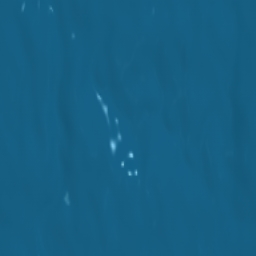
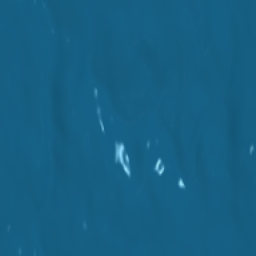
fixed circle and cone textures

diff --git a/projA/MyCircle.js b/projA/MyCircle.js
@@ -15,7 +15,6 @@ class MyCircle extends CGFobject {
         this.normals = [];
         this.texCoords = [];
 
-        var ang = 0;
         var alpha = 2*Math.PI/this.slices;
 
         for(var i = 0; i < this.slices; i++){
@@ -23,7 +22,9 @@ class MyCircle extends CGFobject {
             this.vertices.push(this.radius * Math.cos(alpha*i), 0,this.radius * -Math.sin(alpha*i));
             this.indices.push(i, (i+1) % this.slices, this.slices);
             this.normals.push(0, 1, 0);
-            this.texCoords.push(i % 2, 1);
+            //reduze circle radius to 1, and make all values positive
+            this.texCoords.push(Math.cos(alpha*i)*0.5+0.5, -Math.sin(alpha*i)*0.5+0.5);
+            //this.texCoords.push(0.5, 0.5);
         }
         this.vertices.push(0,0,0);
         this.normals.push(0,1,0);

diff --git a/projA/MyCone.js b/projA/MyCone.js
@@ -24,13 +24,14 @@ class MyCone extends CGFobject {
             this.vertices.push(Math.cos(ang), 0, -Math.sin(ang));
             this.indices.push(i, (i+1) % this.slices, this.slices);
             this.normals.push(Math.cos(ang), Math.cos(Math.PI/4.0), -Math.sin(ang));
-            this.texCoords.push(i % 2, 1);
+            //reduze cone radius to 1, and make all values positive
+            this.texCoords.push(Math.cos(ang)*0.5+0.5, -Math.sin(ang)*0.5+0.5);
 
             ang+=alphaAng;
         }
         this.vertices.push(0,1,0);
         this.normals.push(0,1,0);
-        this.texCoords.push(0.5, 0);
+        this.texCoords.push(0.5, 0.5);
         
 
         this.primitiveType = this.scene.gl.TRIANGLES;

diff --git a/projA/MyLake.js b/projA/MyLake.js
@@ -29,14 +29,6 @@ class MyLake extends CGFobject {
     }
 
     initTextures(){
-        this.coords = [];
-        var alpha = 2*Math.PI/40;
-        for(var i = 0; i < 40; i++){
-            this.coords.push(Math.cos(alpha*i), -Math.sin(alpha*i));
-        }
-        this.coords.push(0.5, 0.5);
-        this.water.updateTexCoords(this.coords);
-
         this.rockTex = new CGFtexture(this.scene, 'images/campfire/rocks.png');
         this.rocks.setTextures(this.rockTex, this.rockTex, this.rockTex);
     }

diff --git a/projA/MyScene.js b/projA/MyScene.js
@@ -186,7 +186,7 @@ class MyScene extends CGFscene {
         //Voxell Hills
         this.pushMatrix();
         this.voxelhill.setLevels(3);
-        this.translate(10, 2.5, 10);
+        this.translate(12, 2.5, 12);
         this.voxelhill.display();
         this.popMatrix();
 
